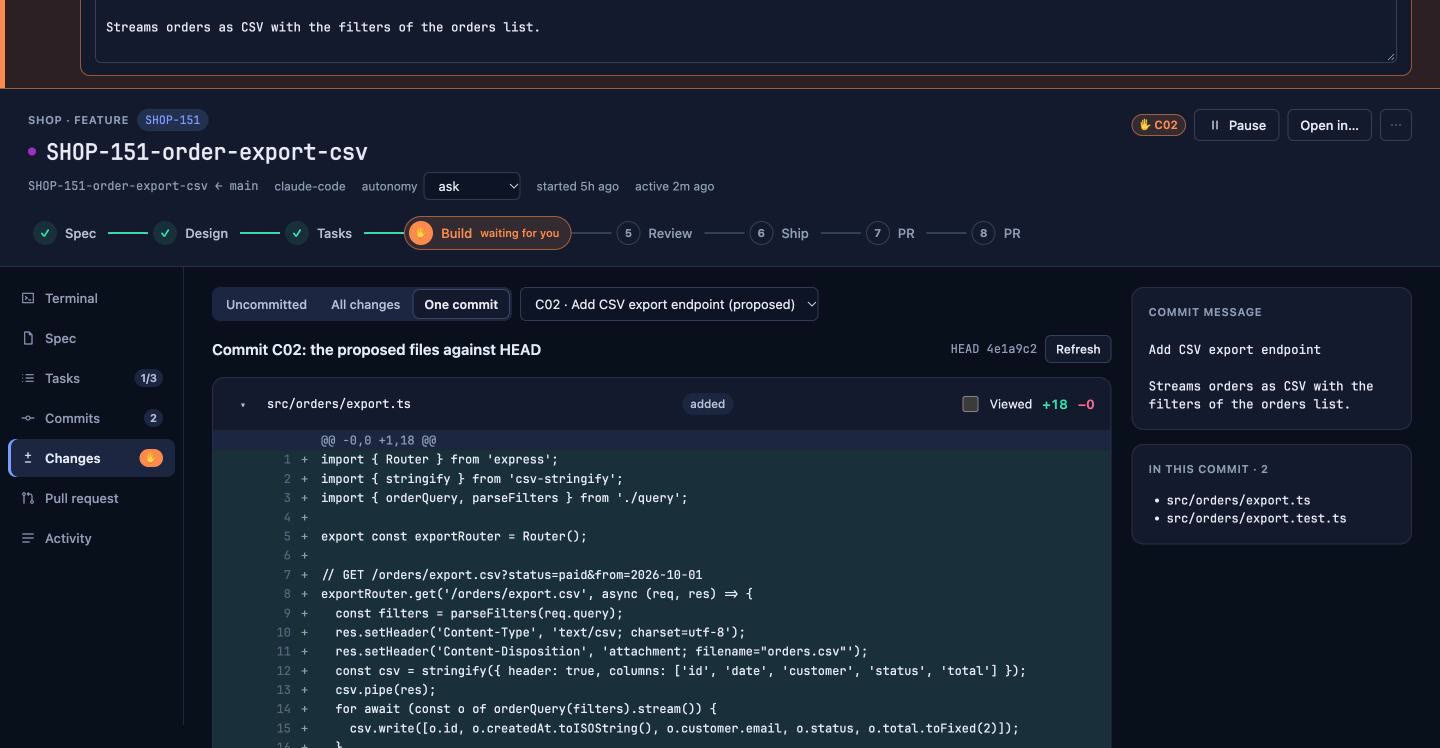
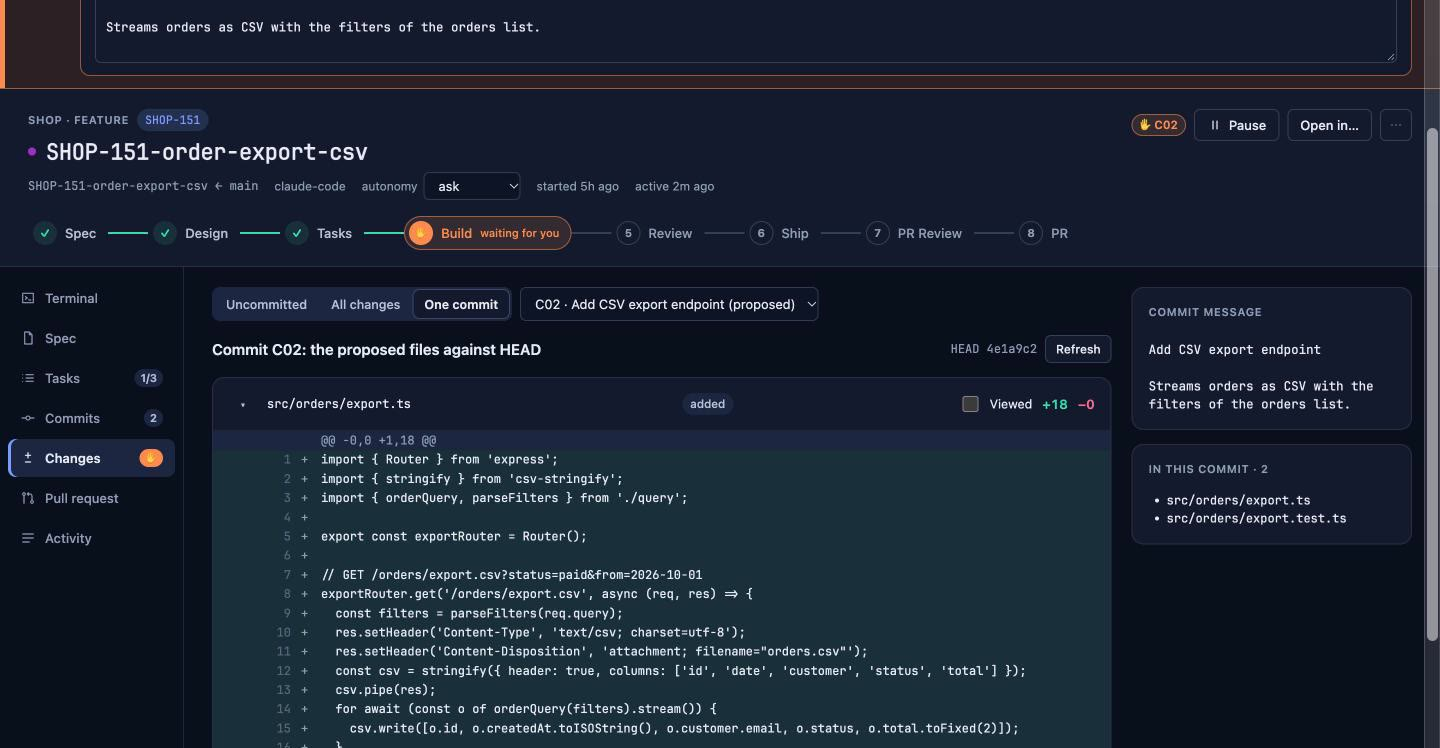
README: move built features out of Planned; screenshots with the fixed step bar
Autonomy, tripwires, guardrails, PR follow-up, repo profiles, notifications
and backups are built; Planned keeps other runtimes, device access and
declarative views.

Claude-Session: https://claude.ai/code/session_01E8xgWsoMdtdVgi26wve5d5

Changed region(s): [[0.9688, 0.0, 1.0, 1.0], [0.625, 0.3075, 0.7188, 0.3382]]

diff --git a/README.md b/README.md
@@ -42,14 +42,17 @@ Working today:
 - Git access from the UI (HTTPS tokens, SSH keys, per-owner commit identity) and repositories cloned by URL.
 - Plugins in any language (the CLI is the plugin API). Single Rust binary, web UI embedded.
 - A Board with every stage and task of every agent (pending, in progress, done), a Needs attention page, time tracking and TODOs.
+- Adjustable autonomy: xherd can approve routine steps itself, held back by tripwires (secrets, sensitive paths, large diffs, failing lint or tests). Guardrails: a pre-push guard, token budgets, a session time limit and a "Pause all" kill switch.
+- Pull request follow-up: CI and merge conflicts are polled, review comments become fix tasks, and replies are posted only after you approve them.
+- Repo profiles: per-repository base branch, autonomy, tripwires, test and lint commands, and instructions.
+- Notifications in the browser and on the desktop, and on your phone through ntfy.
+- Backups of agents and their work (`xherd backup create|verify|restore`).
 
 Planned:
 
-- Adjustable autonomy, tripwires and guardrails (for example, blocking pushes).
-- Following the pull request after it opens: CI, review comments, replies.
 - Other runtimes beyond Claude Code (Codex, opencode…), and a runtime, model and effort per step.
-- Notifications and access from your phone.
-- Declarative views and backups.
+- Secure access from your phone or another device (pairing), beyond notifications.
+- Declarative views: Board cards and views declared by flow packs and profiles.
 
 ## Screenshots
 
